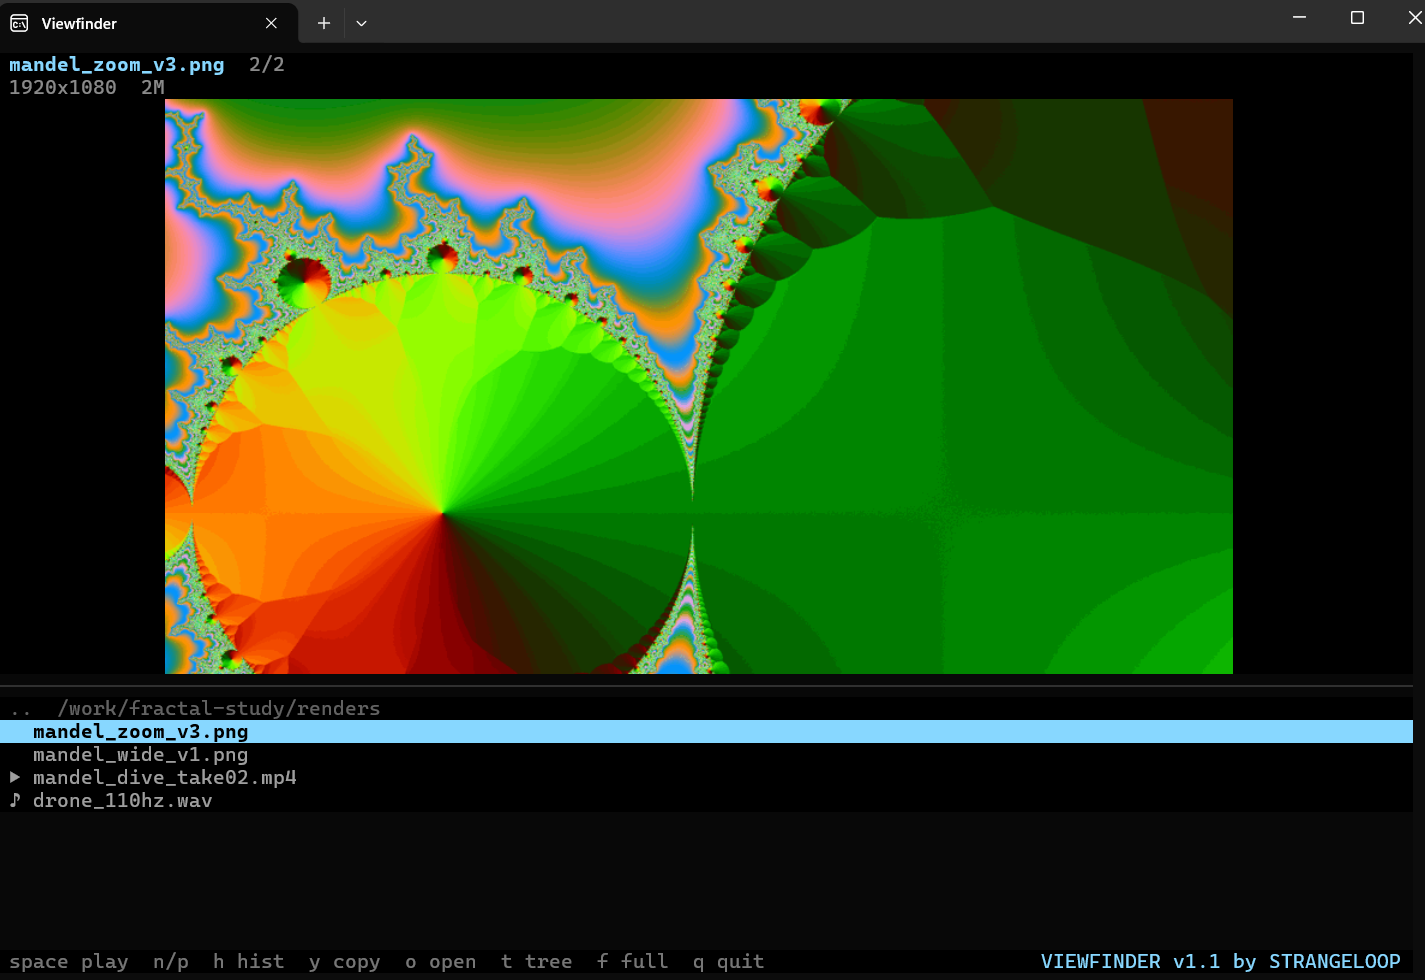
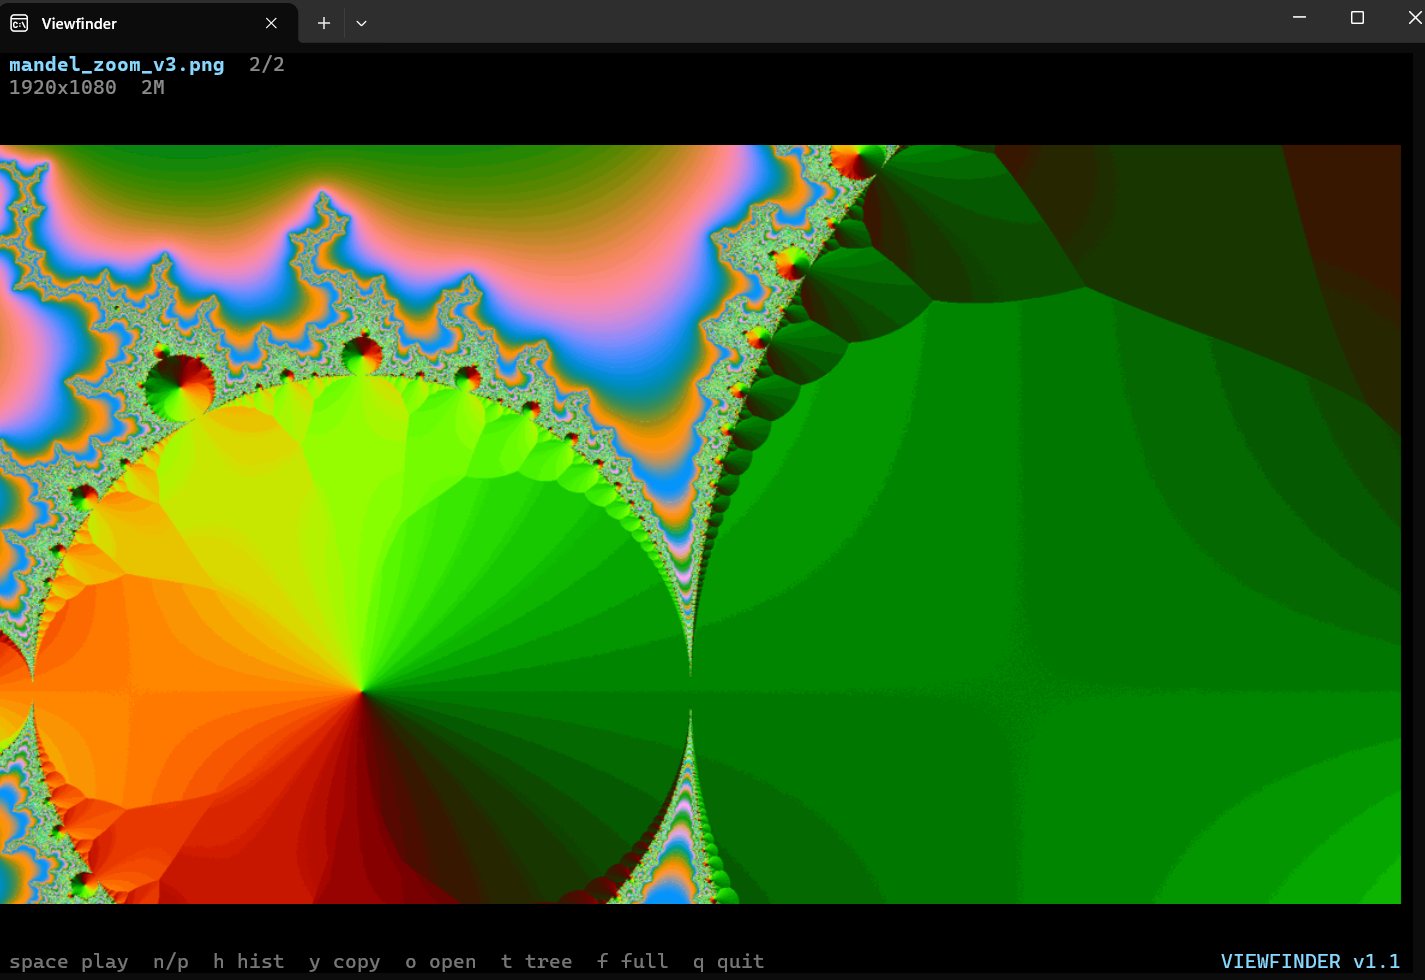
Drop the studio tag; brand is just VIEWFINDER v1.1
Claude-Session: https://claude.ai/code/session_019gxeQ5oZB2WLaDpX5d3kVm

diff --git a/src/viewfinder/app.py b/src/viewfinder/app.py
@@ -20,7 +20,7 @@ from .media import Info, contact_sheet, extract_frames, probe, waveform
 
 ACCENT = "#7dd3fc"
 _UNSET = object()
-BRAND = "VIEWFINDER v" + ".".join(__version__.split(".")[:2]) + " by STRANGELOOP"
+BRAND = "VIEWFINDER v" + ".".join(__version__.split(".")[:2])
 
 
 def _image_widget_class(protocol: str):
@@ -204,7 +204,7 @@ class Viewfinder(App):
     def _render_header(self, path: Path | None, note: str = "") -> None:
         hdr = self.query_one("#header", Static)
         if path is None:
-            hdr.update(f"[{ACCENT} bold]VIEWFINDER[/] [dim]by STRANGELOOP[/]   [dim]waiting for media · {self._effective_protocol()}[/]\n[dim]vf show FILE, or let your agent read an image[/]")
+            hdr.update(f"[{ACCENT} bold]VIEWFINDER[/]   [dim]waiting for media · {self._effective_protocol()}[/]\n[dim]vf show FILE, or let your agent read an image[/]")
             return
         meta = self.info.human() if self.info else "…"
         hist = state.history()
@@ -215,7 +215,7 @@ class Viewfinder(App):
         keys = "space play  n/p  h hist  y copy  o open  t tree  f full  q quit"
         self.query_one("#keys", Static).update(msg or keys)
         w = self.size.width
-        brand = BRAND if w >= 90 else ("VIEWFINDER v" + ".".join(__version__.split(".")[:2]) if w >= 60 else "VF")
+        brand = BRAND if w >= 60 else "VF"
         self.query_one("#brand", Static).update(f"[{ACCENT}]{brand}[/]")
 
     # ----- tree ---------------------------------------------------------

diff --git a/README.md b/README.md
@@ -2,8 +2,6 @@
 
 **A media pane beside your AI coding agent.** When Claude Code reads an image, it shows up here, sharp, in your terminal. Video plays at full frame rate. Audio gets a waveform. Nothing to type.
 
-*VIEWFINDER by STRANGELOOP*
-
 ![Viewfinder showing a render, with the folder tree below it](docs/viewfinder.png)
 
 ## Why this exists
